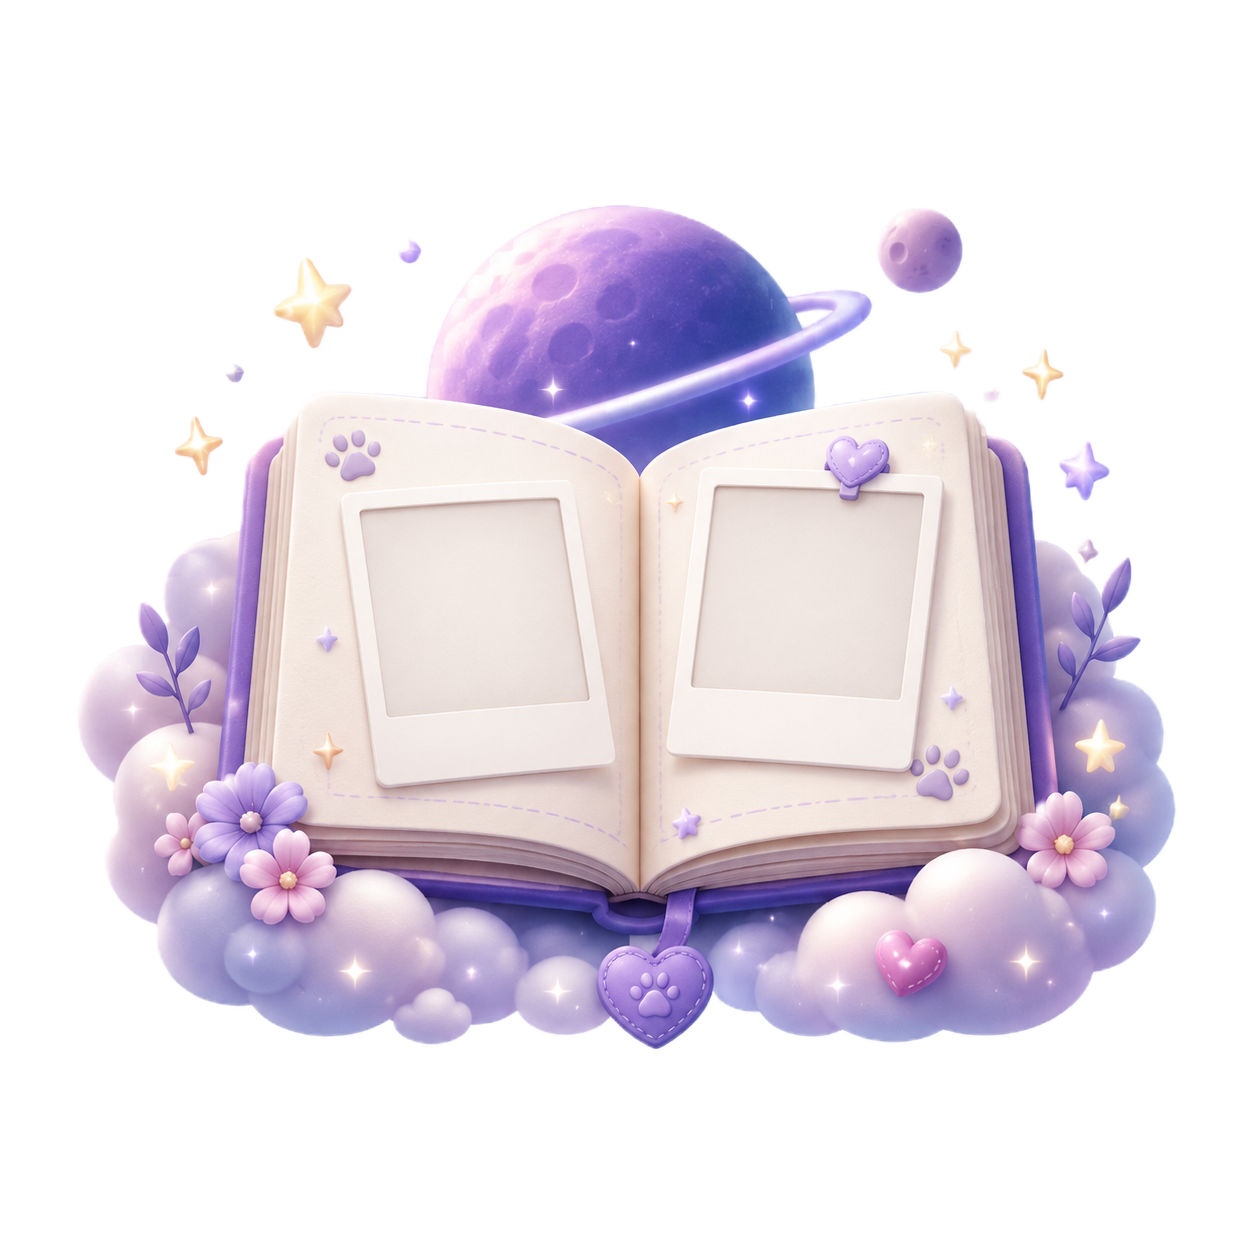
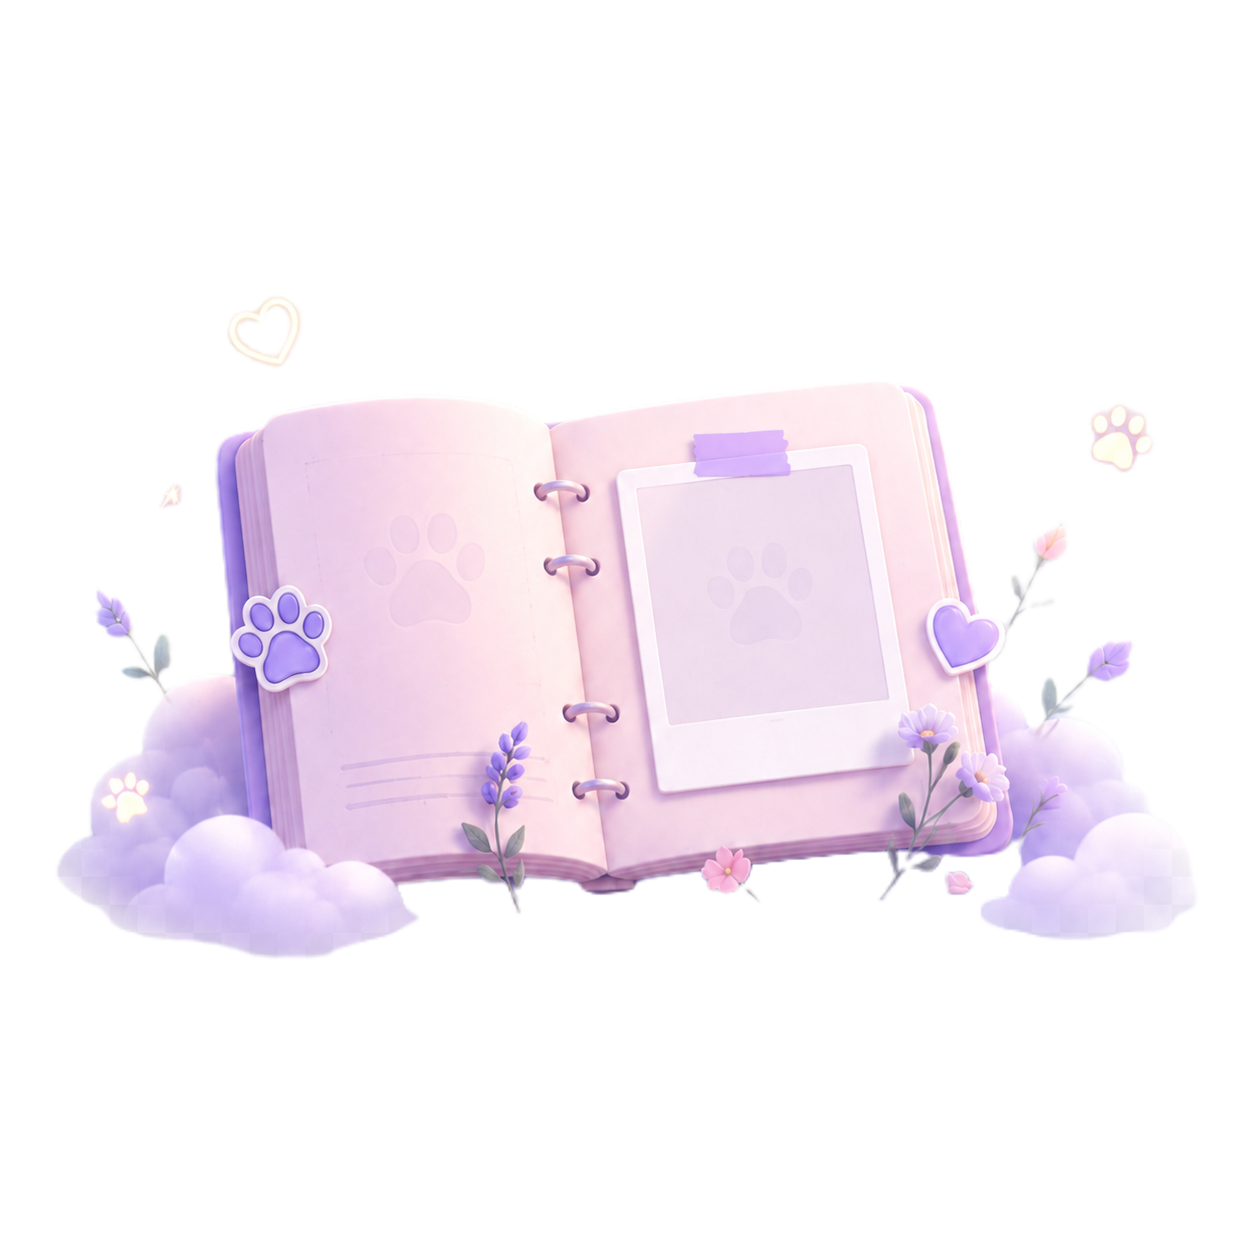
回忆相册占位换 memphoto.png 并放大/调位；写信标题用真实宠物名、署名可编辑、删重叠 emoji
- PlanetDecor：相册占位用 memphoto.png（去 emoji），尺寸/位置贴近展示图
- GalleryView：空态顶部留白 + 间距舒展、标题去 ✨
- LetterView：标题「写给{petName}的信」；署名「爱你的__」可输入并随保存写进信末；移除与署名重叠的 🐾
- 逻辑保持：上传/分类/删除/详情/保存均不变

diff --git a/components/paw-planet/LetterView.jsx b/components/paw-planet/LetterView.jsx
@@ -16,6 +16,7 @@ import { addMemorialLetter } from "@/services/memorialLetterService";
 export default function LetterView({ petName = "毛孩子", petId, userId, avatar, petType = "dog", onBack, toast, onLetterSaved }) {
   const [title, setTitle] = useState("");
   const [content, setContent] = useState("");
+  const [signer, setSigner] = useState("主人"); // 署名「爱你的__」，用户可改
   const [saving, setSaving] = useState(false);
   const petImg = avatar || (petType === "cat" ? "/cat.png" : "/dog.png");
 
@@ -24,8 +25,10 @@ export default function LetterView({ petName = "毛孩子", petId, userId, avata
     if (saving) return;
     setSaving(true);
     try {
-      // 真实写入 Supabase memorial_letters（记录在案）；并通知刷新，使「今天的它」下一段变收到信
-      await addMemorialLetter({ userId, petId, title, content });
+      // 真实写入 Supabase memorial_letters（记录在案）；署名一并写进信末
+      const body = content.trim();
+      const full = signer.trim() ? `${body}\n\n—— 爱你的${signer.trim()}` : body;
+      await addMemorialLetter({ userId, petId, title, content: full });
       onLetterSaved?.();
       toast?.("已寄到星球信箱 💌");
       setTitle(""); setContent("");
@@ -45,7 +48,7 @@ export default function LetterView({ petName = "毛孩子", petId, userId, avata
       <div style={{ position: "relative", zIndex: 1, padding: "max(env(safe-area-inset-top), 28px) 16px 8px", display: "flex", alignItems: "center", gap: 10, flexShrink: 0 }}>
         <BackButton onClick={onBack} bg={P.glassBtn} color="#fff" border={false} shadow={false} />
         <div style={{ flex: 1, textAlign: "center", fontSize: 18, fontWeight: 800, color: "#fff" }}>
-          写给它的信 <span style={{ fontSize: 13 }}>✨</span>
+          写给{petName}的信 <span style={{ fontSize: 13 }}>✨</span>
         </div>
         <GlassCircle ariaLabel="相机"><Camera size={17} color="#fff" /></GlassCircle>
       </div>
@@ -66,9 +69,16 @@ export default function LetterView({ petName = "毛孩子", petId, userId, avata
               placeholder={`亲爱的${petName}：\n今天又想你了……`} rows={9}
               style={{ width: "100%", border: "none", background: "transparent", outline: "none", resize: "none",
                        fontSize: 14, color: P.ink, lineHeight: "34px", fontFamily: "inherit" }} />
-            <div style={{ textAlign: "right", fontSize: 13, color: P.sign, marginTop: 4 }}>—— 爱你的主人</div>
-            <span style={{ position: "absolute", left: 14, bottom: 10, fontSize: 16, opacity: 0.85 }}>🐾</span>
-            <span style={{ position: "absolute", right: 16, bottom: 10, fontSize: 13, opacity: 0.8 }}>🐾</span>
+            <div style={{ display: "flex", justifyContent: "flex-end", alignItems: "center", gap: 2,
+                          fontSize: 13, color: P.sign, marginTop: 4 }}>
+              —— 爱你的
+              <input className="pp-letter-field" value={signer} onChange={(e) => setSigner(e.target.value)}
+                placeholder="主人" maxLength={8}
+                style={{ border: "none", borderBottom: `1px dashed ${P.paperLine}`, background: "transparent",
+                         outline: "none", color: P.sign, fontSize: 13, fontWeight: 700, textAlign: "center",
+                         width: `${Math.max(2, signer.length) * 16 + 6}px` }} />
+            </div>
+            <span style={{ position: "absolute", left: 14, bottom: 10, fontSize: 15, opacity: 0.85 }}>🐾</span>
           </div>
         </div>
 

diff --git a/components/paw-planet/GalleryView.jsx b/components/paw-planet/GalleryView.jsx
@@ -102,13 +102,13 @@ export default function GalleryView({ petName = "毛孩子", avatar, petId, user
         {loading ? (
           <div style={{ textAlign: "center", color: P.sub, marginTop: 70, fontSize: 13 }}>加载中…</div>
         ) : list.length === 0 ? (
-          <div style={{ textAlign: "center", marginTop: 28 }}>
+          <div style={{ textAlign: "center", marginTop: 40 }}>
             <MemoryAlbumPlaceholder />
-            <div style={{ fontSize: 17, fontWeight: 800, color: "#fff", marginTop: 6 }}>还没有回忆卡片 ✨</div>
-            <div style={{ fontSize: 12.5, marginTop: 8, lineHeight: 1.7, color: P.sub }}>上传一张照片，把你们的<br />美好时光收藏起来吧</div>
+            <div style={{ fontSize: 18, fontWeight: 800, color: "#fff", marginTop: 18 }}>还没有回忆卡片</div>
+            <div style={{ fontSize: 13, marginTop: 10, lineHeight: 1.7, color: P.sub }}>上传一张照片，把你们的<br />美好时光收藏起来吧</div>
             <button onClick={() => setShowAdd(true)}
-              style={{ marginTop: 20, padding: "12px 26px", borderRadius: 16, border: "none", cursor: "pointer",
-                       background: "rgba(255,255,255,0.95)", color: "#7466D8", fontSize: 14, fontWeight: 800,
+              style={{ marginTop: 22, padding: "13px 30px", borderRadius: 16, border: "none", cursor: "pointer",
+                       background: "rgba(255,255,255,0.95)", color: "#7466D8", fontSize: 14.5, fontWeight: 800,
                        boxShadow: "0 8px 22px rgba(120,100,216,0.35)" }}>
               添加回忆卡片
             </button>

diff --git a/components/paw-planet/PlanetDecor.jsx b/components/paw-planet/PlanetDecor.jsx
@@ -54,7 +54,7 @@ export function SoftClouds() {
 export function MemoryAlbumPlaceholder() {
   return (
     <img src="/memphoto.png" alt="" aria-hidden="true"
-         style={{ width: 240, maxWidth: "72%", height: "auto", display: "block", margin: "0 auto",
+         style={{ width: 320, maxWidth: "84%", height: "auto", display: "block", margin: "0 auto",
                   filter: "drop-shadow(0 12px 26px rgba(40,28,96,0.32))" }} />
   );
 }